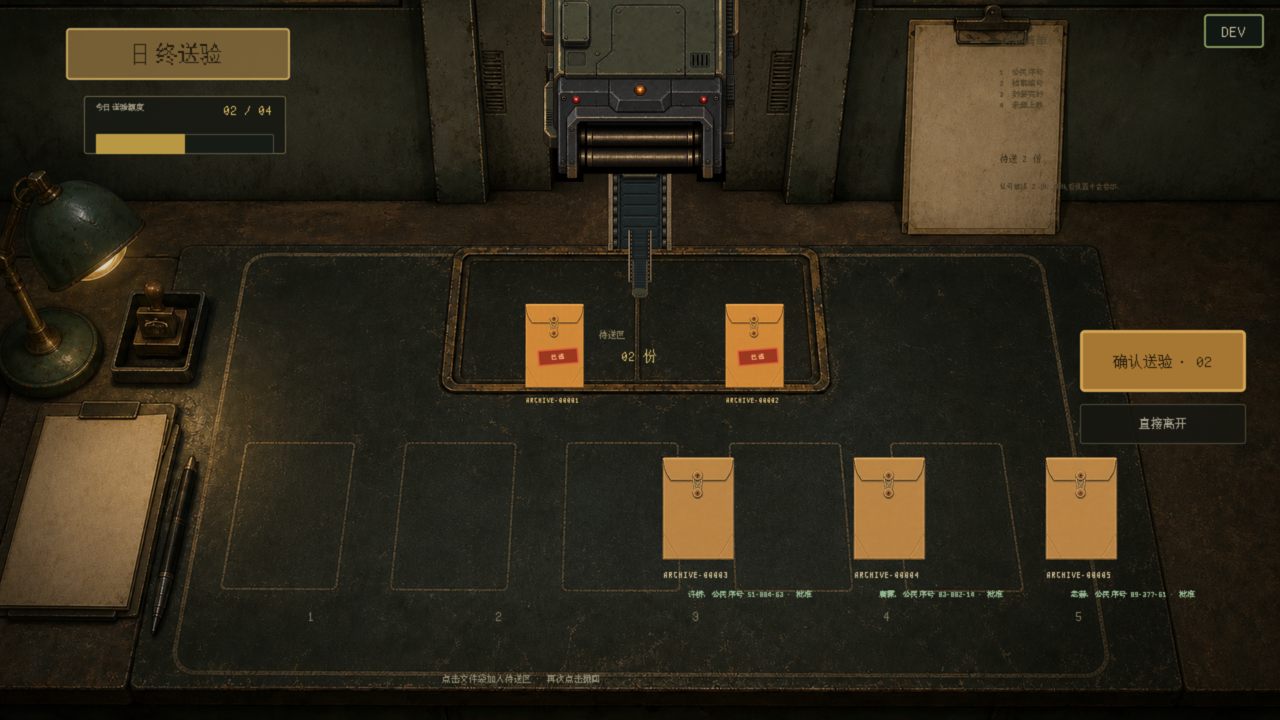
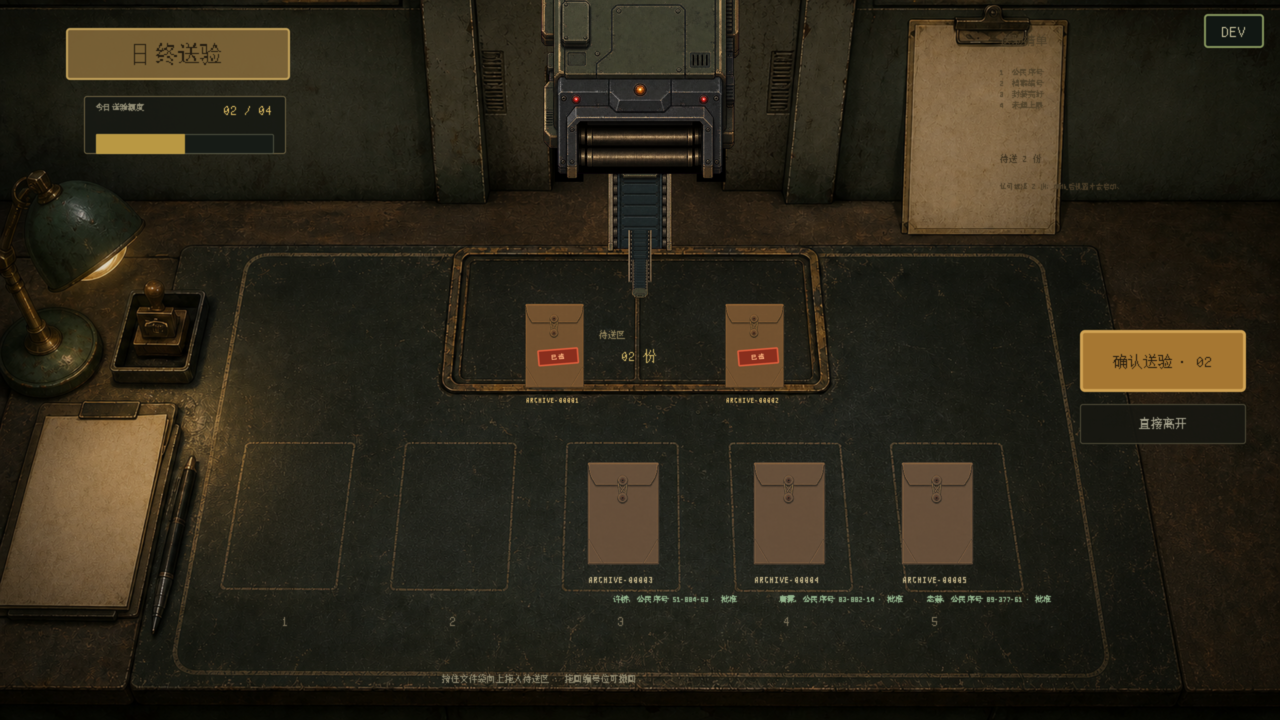
feat: add drag-based endday validation

diff --git a/design-qa.md b/design-qa.md
@@ -28,7 +28,7 @@ A separate crop was not required. The original-resolution implementation capture
 - Fonts and typography: existing project font and pixel-rendered hierarchy are retained. Title, quota, clipboard copy, archive identity, waiting count, and actions have distinct optical weights without overflow.
 - Spacing and layout rhythm: the former three floating dashboard regions are removed. The tray, rail, machine, and five numbered slots share a continuous physical axis and no persistent control covers a document slot.
 - Colors and visual tokens: dark olive enamel, aged paper, muted brass, amber confirmation, and red selected stamps match the target direction and existing Formocracy assets.
-- Image quality and asset fidelity: the desk is a dedicated raster environment asset. Machine, rail, foreground mask, lights, and document bags use approved project textures; no placeholder art is visible.
+- Image quality and asset fidelity: the desk is a dedicated raster environment asset. Machine, rail, foreground mask, and lights use approved project textures. The validation sleeve is a deterministic color-filter derivative of the original closed bureau envelope: dimensions remain `340 × 520`, and an alpha-channel comparison reports `0` changed pixels, so the silhouette, flap, folds, and string closure are exactly preserved. No label window, stripe, or generated decoration remains.
 - Copy and content: the screen uses short operational language: quota, checklist, waiting count, confirm, leave, and contextual machine state. Redundant dashboard prose has been removed.
 
 ## Comparison History
@@ -55,8 +55,9 @@ No actionable P0, P1, or P2 differences remain.
 
 ## Interaction Verification
 
-- Selecting a numbered document moves it into the waiting zone without starting the conveyor.
-- Clicking the same selected document returns it to its original numbered slot.
+- A plain click does not select a numbered document.
+- Pressing and dragging a document reveals a bounded waiting-zone target; releasing inside it stages the bag without starting the conveyor.
+- Dragging a staged document back below the waiting zone returns it to its original numbered slot.
 - The daily upper limit prevents an extra selection.
 - Confirm locks the batch and ingests selected bags sequentially.
 - Leave exits without validating unconfirmed selections.
